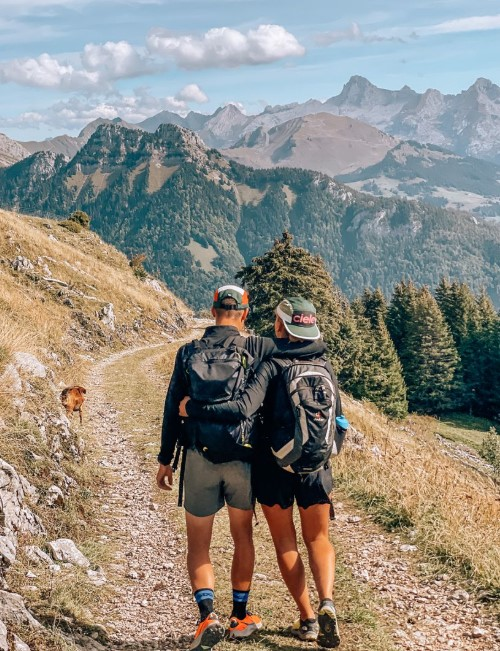
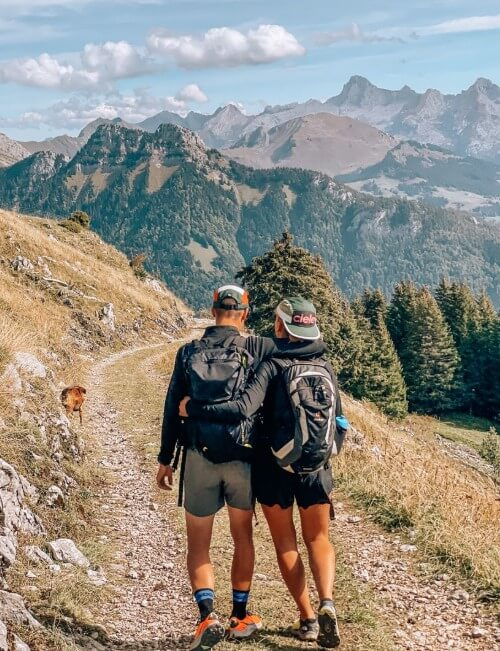
optimizacion de imagenes y empezar a acomodar los enlaces a youtube

Changed region(s): [[0.45, 0.9524, 0.48, 0.9831]]

diff --git a/index.html b/index.html
@@ -94,19 +94,19 @@
                     <div class="row row-cols-1 row-cols-md-2 g-4">
                         <div class="col" data-aos="fade-right">
                             <div class="card">
-                                <iframe class="object-fit-contain" width= 100% height="370" src="https://www.youtube.com/embed/B-RnRjTAly0?si=TZYIrALaMritcmyq" title="YouTube video player" frameborder="0" allow="accelerometer; autoplay; clipboard-write; encrypted-media; gyroscope; picture-in-picture; web-share" referrerpolicy="strict-origin-when-cross-origin" allowfullscreen></iframe>
+                                <iframe class="object-fit-contain" width= 100% height="370" src="https://www.youtube.com/embed/uCc8sjgsExg?si=ghsmT3531OwrHrf1&amp;controls=0" title="YouTube video player" frameborder="0" referrerpolicy="strict-origin-when-cross-origin"></iframe>
                                 <div class="card-body">
-                                    <h5 class="card-title">Titulo del video</h5>
-                                    <p class="card-text">Breve descripcion</p>
+                                    <h5 class="card-title">Calmar el sistema nervioso</h5>
+                                    <p class="card-text">Practica de yoga para calmar el sistema nervioso</p>
                                 </div>
                             </div>
                         </div>
                         <div class="col" data-aos="fade-left">
                             <div class="card">
-                                <iframe class="object-fit-contain" width= 100% height="370" src="https://www.youtube.com/embed/uCc8sjgsExg?si=uKKPRSIpOjF-30-y" title="YouTube video player" frameborder="0" allow="accelerometer; autoplay; clipboard-write; encrypted-media; gyroscope; picture-in-picture; web-share" referrerpolicy="strict-origin-when-cross-origin" allowfullscreen></iframe>
+                                <iframe class="object-fit-contain" width= 100% height="370" src="https://www.youtube.com/embed/B-RnRjTAly0?si=1DSROFghNVG3ycz-&amp;controls=0" title="YouTube video player" frameborder="0" referrerpolicy="strict-origin-when-cross-origin"></iframe>
                                 <div class="card-body">
-                                    <h5 class="card-title">Titulo del video</h5>
-                                    <p class="card-text">Breve descripcion</p>
+                                    <h5 class="card-title">Yoga en la playa</h5>
+                                    <p class="card-text">Clase multinivel de yoga en la playa</p>
                                 </div>
                             </div>
                         </div>

diff --git a/html/blog.html b/html/blog.html
@@ -8,7 +8,10 @@
     <link rel="preconnect" href="https://fonts.googleapis.com">
     <link rel="preconnect" href="https://fonts.gstatic.com" crossorigin>
     <link href="https://fonts.googleapis.com/css2?family=Noto+Sans:ital,wght@0,100..900;1,100..900&display=swap" rel="stylesheet">    
-
+    <link rel="preconnect" href="https://fonts.googleapis.com">
+    <link rel="preconnect" href="https://fonts.gstatic.com" crossorigin>
+    <link href="https://fonts.googleapis.com/css2?family=Monomakh&family=Oswald:wght@200..700&display=swap" rel="stylesheet">
+    
     <!-- boostrap  -->
     <link href="https://cdn.jsdelivr.net/npm/bootstrap@5.3.3/dist/css/bootstrap.min.css" rel="stylesheet" integrity="sha384-QWTKZyjpPEjISv5WaRU9OFeRpok6YctnYmDr5pNlyT2bRjXh0JMhjY6hW+ALEwIH" crossorigin="anonymous">
 

diff --git a/html/contacto.html b/html/contacto.html
@@ -8,7 +8,10 @@
     <link rel="preconnect" href="https://fonts.googleapis.com">
     <link rel="preconnect" href="https://fonts.gstatic.com" crossorigin>
     <link href="https://fonts.googleapis.com/css2?family=Noto+Sans:ital,wght@0,100..900;1,100..900&display=swap" rel="stylesheet">    
-
+    <link rel="preconnect" href="https://fonts.googleapis.com">
+    <link rel="preconnect" href="https://fonts.gstatic.com" crossorigin>
+    <link href="https://fonts.googleapis.com/css2?family=Monomakh&family=Oswald:wght@200..700&display=swap" rel="stylesheet">
+    
     <!-- boostrap  -->
     <link href="https://cdn.jsdelivr.net/npm/bootstrap@5.3.3/dist/css/bootstrap.min.css" rel="stylesheet" integrity="sha384-QWTKZyjpPEjISv5WaRU9OFeRpok6YctnYmDr5pNlyT2bRjXh0JMhjY6hW+ALEwIH" crossorigin="anonymous">
 
